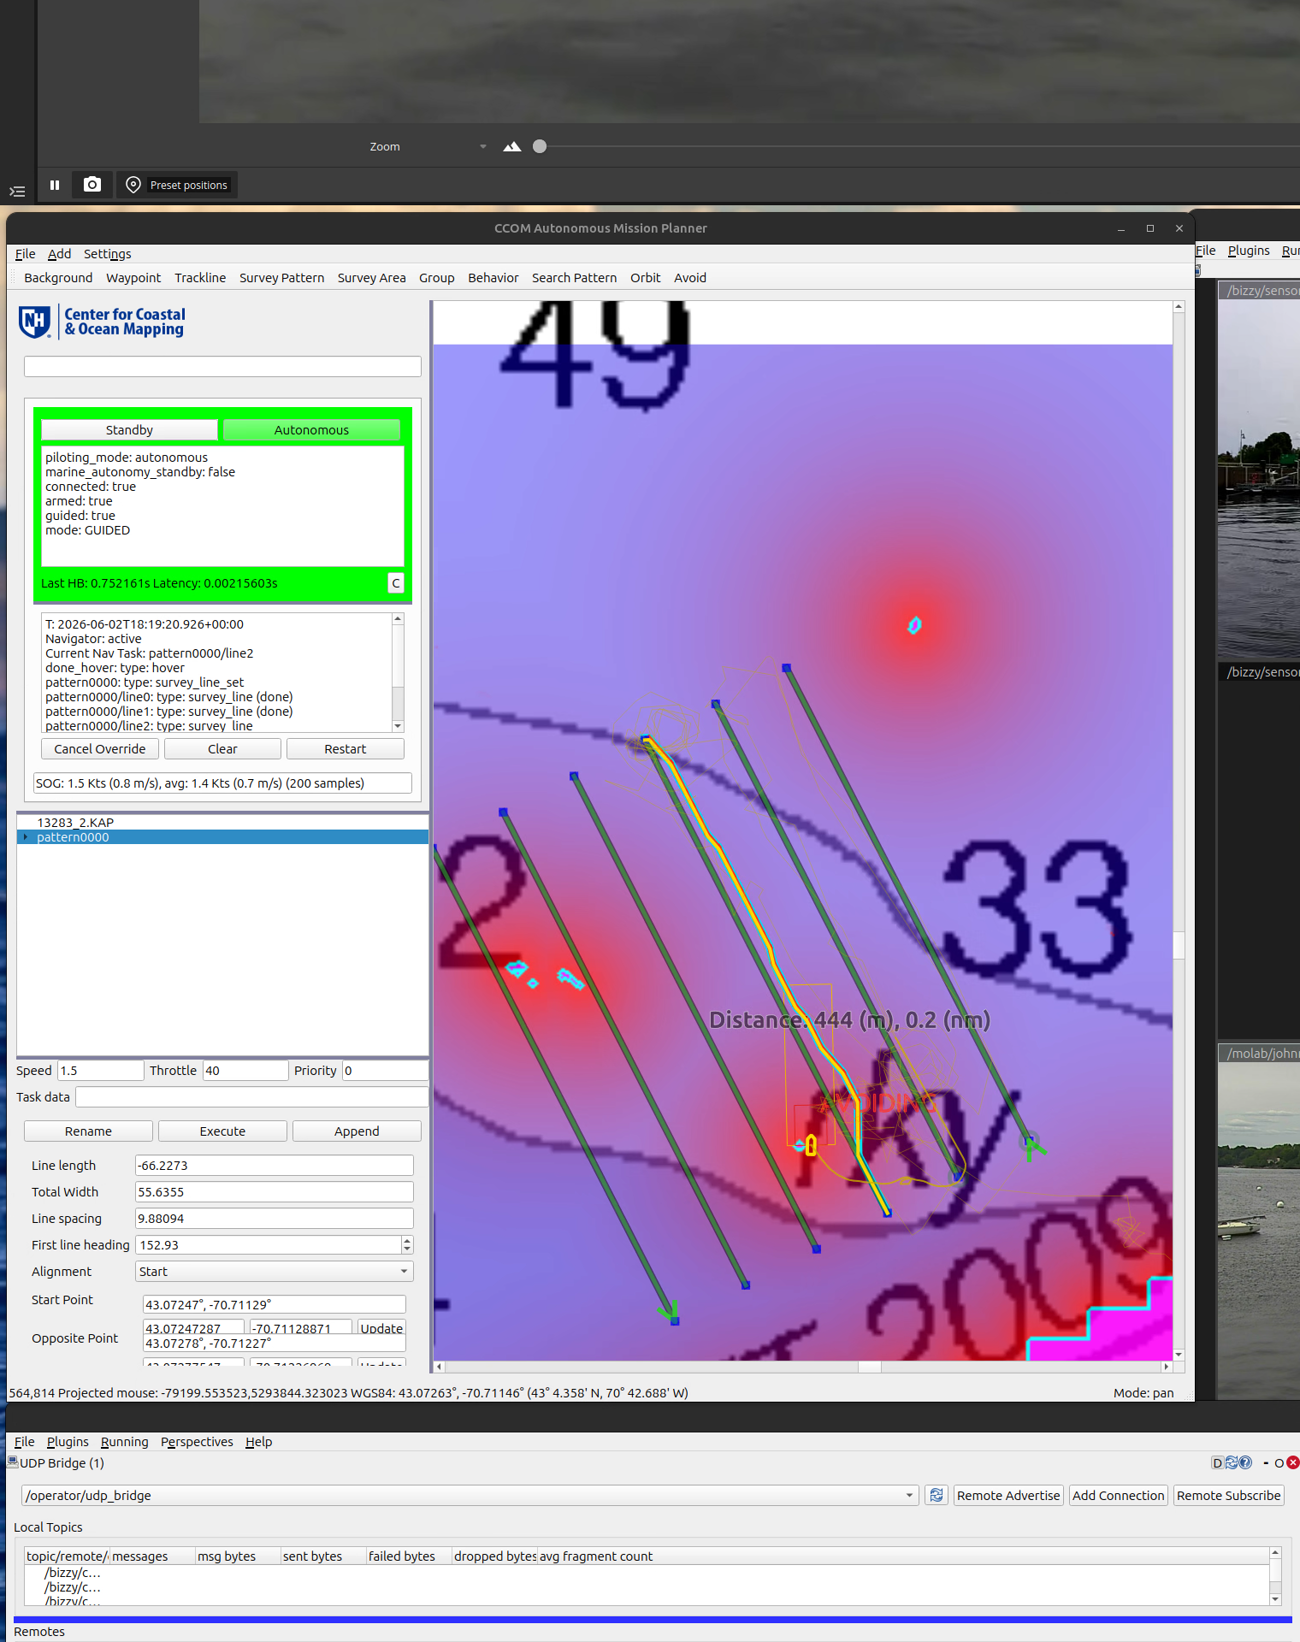
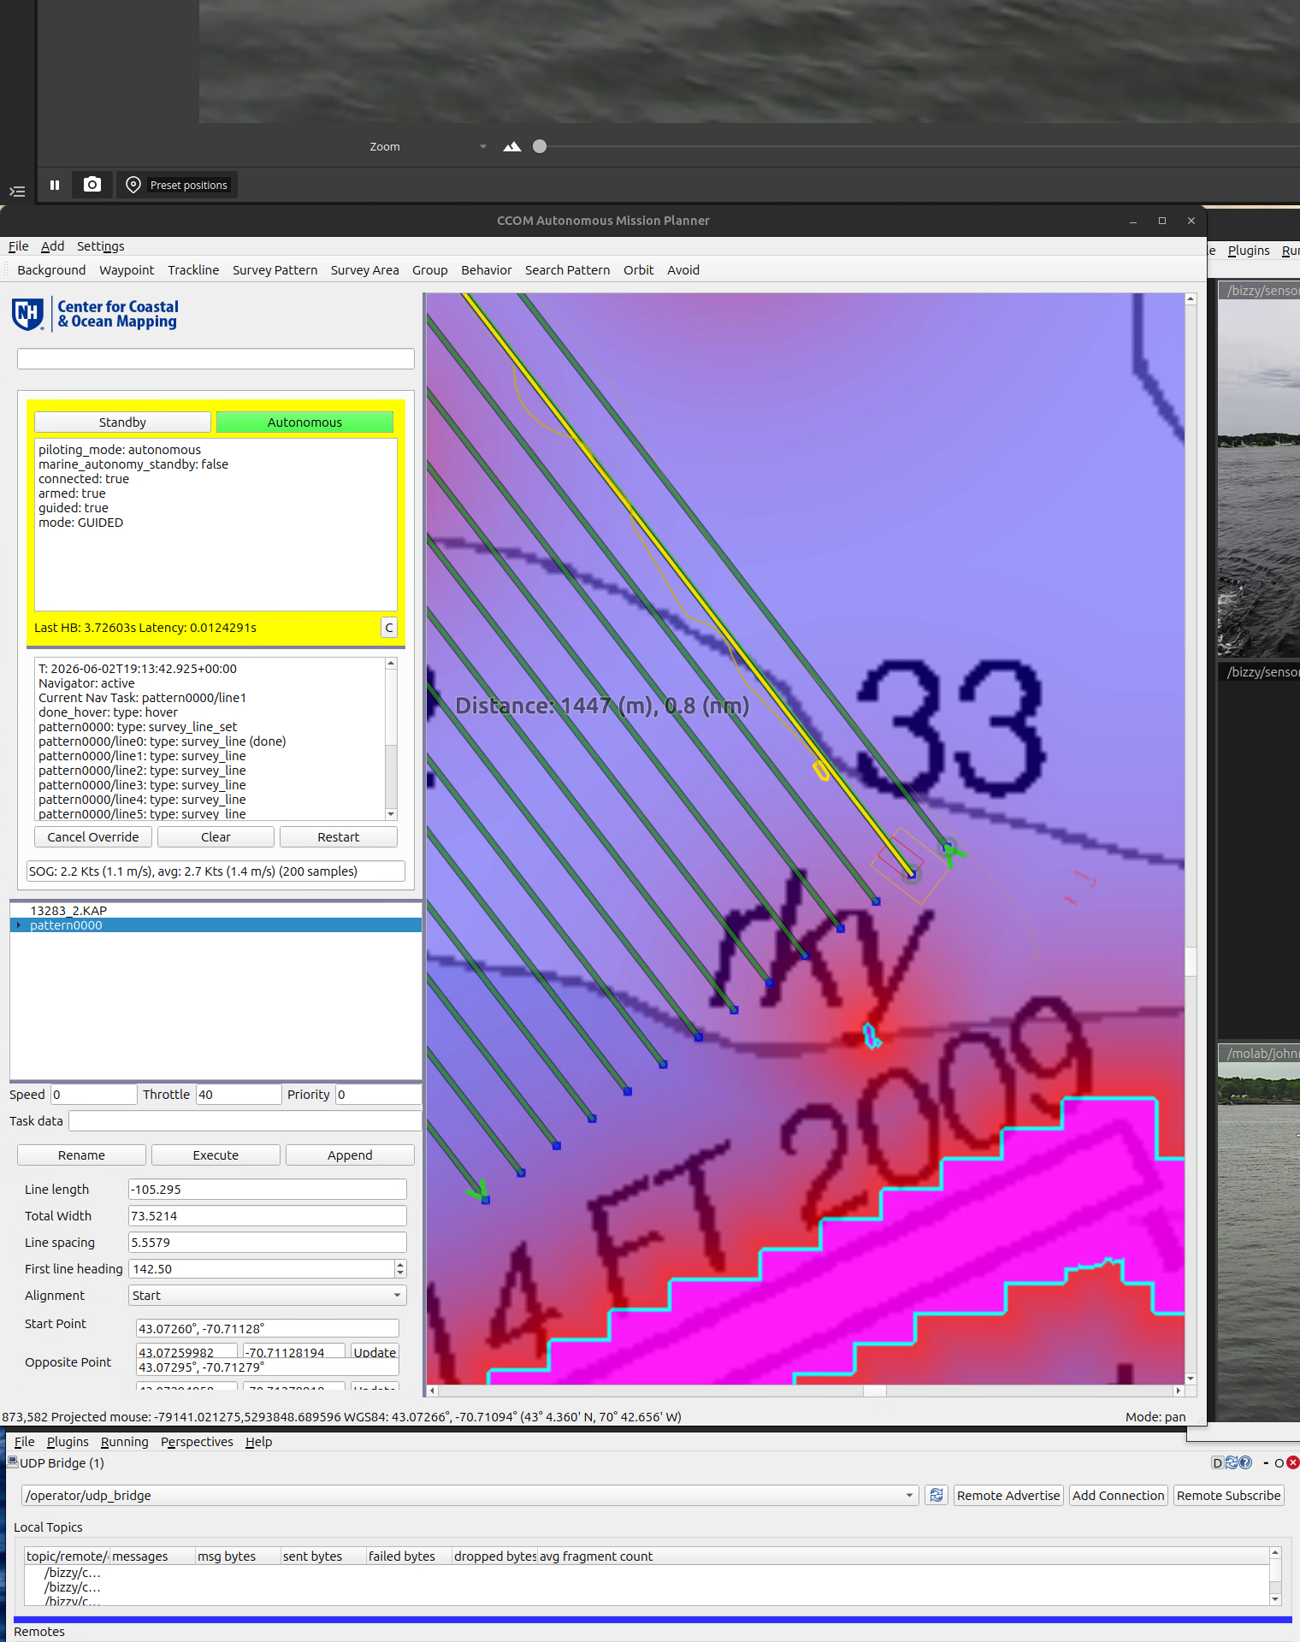
docs: use the yellow-heartbeat survey frame for the CAMP display figure (#61)
Swap to the June-2 19:12 UTC frame (operator's pick): it shows the pier as a
charted obstacle (magenta costmap), a camera-derived obstacle marked between the
pier and the survey area, the survey-pattern tracklines, and the heartbeat panel
caught mid-color-change in its yellow warning state (a comms hiccup) -- a good
teaching frame for the display. Caption and the heartbeat-panel description updated
to call these out.

Part of #61

diff --git a/docs/camp_user_manual.md b/docs/camp_user_manual.md
@@ -52,10 +52,12 @@ When the link and boat are healthy, the boat's tab appears on its own.
 CAMP is a **chart (map) view** with overlays, plus a **per-boat tab** on the side
 for that boat's status and controls.
 
-![The CAMP window during a survey: platform tab with heartbeat/status and mission
-tree + item details (left); on the chart (right), the planned survey-pattern
-tracklines, the live navigation costmap with detected obstacles/targets (red, with
-inflation), depth soundings, and the distance/cross-track readout.](images/camp_window_2026-06-02.png)
+![The CAMP window during a survey: the platform tab (left) with the mission tree and
+item details; the heartbeat/status panel is **yellow here — the color change flags a
+transient heartbeat/comms warning** to the operator. On the chart (right): the
+planned survey-pattern tracklines, the **pier as a charted obstacle** (magenta on the
+navigation costmap), a **camera-derived obstacle** marked between the pier and the
+survey area, depth soundings, and the distance/cross-track readout.](images/camp_window_2026-06-02.png)
 
 ### The map
 
@@ -69,8 +71,10 @@ Each boat gets a tab containing:
 
 - **Heartbeat panel** — the boat sends a **heartbeat**; this panel shows
   **"Last HB"** and **latency**, and is colored **green / yellow / red** by how long
-  since the last heartbeat. Green = healthy link and the command is being applied.
-  (Thresholds are adjustable via the panel's config button.)
+  since the last heartbeat. Green = healthy link and the command is being applied;
+  yellow/red warn of a growing gap (a comms hiccup) — the screenshot above catches
+  the panel in its **yellow** warning state. (Thresholds are adjustable via the
+  panel's config button.)
 - **Mission status** — key/value fields from the boat's mission manager (what task
   it's on, etc.).
 - The **Standby / Autonomous** control buttons (see [§5](#5-sending--controlling-missions)).

diff --git a/.agent/work-plans/issue-61/plan.md b/.agent/work-plans/issue-61/plan.md
@@ -93,9 +93,12 @@ capture; terminals excluded; Roland approved the content for this PUBLIC repo).
 manual doesn't go stale; CAMP is platform-neutral — refs are "the boat" / "the
 boat's operator manual" with BizzyBoat only as the explicit *See also* example.
 Swapped the screenshot to a **June-2 mid-survey frame** (`camp_window_2026-06-02.png`,
-UTC 18:18 / 14:18 EDT) showing the **working windowed costmap with detected
-obstacles/targets** + survey-pattern tracklines (costmap confirmed at CAMP from
-13:09 EDT per the salmon deployment log; #56/PR#61 costmap-over-bridge fix).
+UTC 19:12 / 15:12 EDT — frame chosen by Roland) showing the **working windowed
+costmap**: the **pier as a charted obstacle** (magenta), a **camera-derived obstacle**
+marked between the pier and the survey area, the survey-pattern tracklines, and the
+**heartbeat panel caught in its yellow warning state** (color-change-in-action,
+comms hiccup). Costmap confirmed at CAMP from 13:09 EDT per the salmon deployment
+log; #56/PR#61 costmap-over-bridge fix.
 
 ---
 **Authored-By**: `Claude Code Agent`
